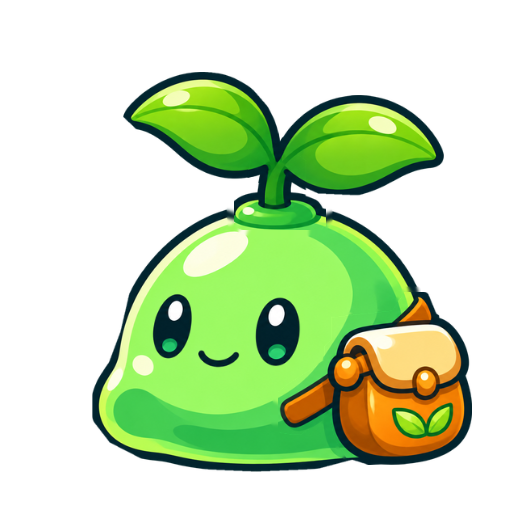
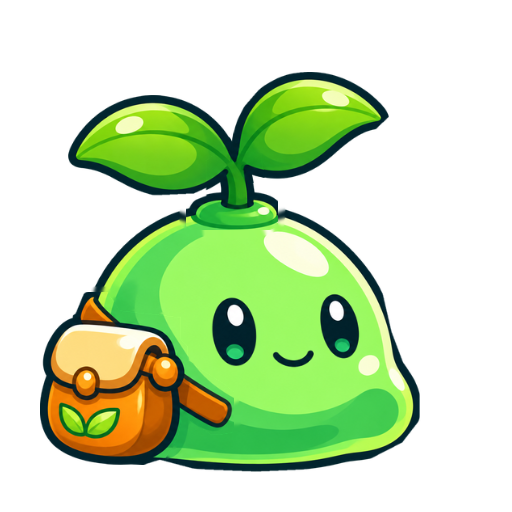
fix: correct Sprout facing

diff --git a/tests/rig-assets.test.js b/tests/rig-assets.test.js
@@ -62,6 +62,13 @@ const EXPECTED_PART_ORDER = Object.freeze({
   ],
 });
 
+const EXPECTED_CANONICAL_FACING = Object.freeze(Object.fromEntries(
+  Object.keys(EXPECTED_PART_ORDER).map((ownerId) => [
+    ownerId,
+    ownerId === 'survivor-moss-sprout' ? -1 : 1,
+  ]),
+));
+
 const EXPECTED_GENERATED_BIND_RECTS = Object.freeze({
   'survivor-shell-shell.shellFront': { x: -44, y: -92, width: 80, height: 64 },
   'survivor-crystal-pin.front': {
@@ -184,7 +191,7 @@ test('rig-parts contract covers all eight characters in canonical draw order', (
     assert.equal(rig.ownerId, ownerId);
     assert.equal(rig.rootBone, 'root');
     assert.equal(rig.faceBone, 'face');
-    assert.equal(rig.canonicalFacing, 1);
+    assert.equal(rig.canonicalFacing, EXPECTED_CANONICAL_FACING[ownerId]);
     assert.equal(rig.atlasPath, expectedAtlasPath(ownerId));
     assert.deepEqual(rig.parts.map(({ id }) => id), expectedParts);
     assert.equal(rig.parts.some(({ bone }) => bone === 'root'), false);

diff --git a/tests/png-runtime-integration.test.js b/tests/png-runtime-integration.test.js
@@ -178,6 +178,26 @@ test('slime composites one complete card bundle after the outer size and facing 
   assert.equal(ctx.globalAlpha, 1);
 });
 
+test('Sprout authored facing left mirrors exactly once to face right in gameplay', () => {
+  resetOffscreen();
+  const ctx = createMainContext();
+  const ownerId = 'survivor-moss-sprout';
+
+  drawSlime(ctx, 30, 70, 100, 'sprout', {
+    animate: false,
+    rigAsset: readyBundle(ownerId),
+  });
+
+  const scale = characterWorldScale(ownerId);
+  assert.equal(MANIFEST.rigs[ownerId].canonicalFacing, -1);
+  assert.deepEqual(ctx.calls.find(([name]) => name === 'scale'), ['scale', -scale, scale]);
+  assert.deepEqual(
+    offscreenState.layerDraws,
+    MANIFEST.rigs[ownerId].parts.map(({ id }) => `${ownerId}:${id}`),
+  );
+  assert.equal(ctx.compositeDraws, 1);
+});
+
 test('draw pipeline forwards expression selection to an independent facial layer', () => {
   resetOffscreen();
   const ctx = createMainContext();

diff --git a/tests/rig-standalones.test.js b/tests/rig-standalones.test.js
@@ -112,7 +112,11 @@ test('world sizing and portrait crops share one aspect-safe profile per characte
     for (const key of ['minX', 'minY', 'maxX', 'maxY']) {
       assert.ok(Math.abs(profile.worldBounds[key] - worldBounds[key]) < 1e-9);
     }
-    assert.equal(rig.canonicalFacing, 1, 'all current production rigs are authored facing right');
+    assert.equal(
+      rig.canonicalFacing,
+      output.ownerId === 'survivor-moss-sprout' ? -1 : 1,
+      'only Sprout is authored facing left; every exported character targets gameplay direction',
+    );
     assert.equal(profile.gameplayFacing, output.category === 'enemy' ? -1 : 1);
 
     const maxSpan = Math.max(

diff --git a/docs/src/character-render-profiles.js b/docs/src/character-render-profiles.js
@@ -36,7 +36,7 @@ export const CHARACTER_RENDER_PROFILES = deepFreeze({
     gameplayFacing: 1,
     worldBounds: { minX: -51, minY: -123.848, maxX: 66.812, maxY: -0.079 },
     portraitCanvas: { width: 512, height: 512 },
-    portraitCrop: { x: 83, y: 64, width: 397, height: 416 },
+    portraitCrop: { x: 32, y: 64, width: 397, height: 416 },
   },
   'enemy-soft-biter': {
     gameplayFacing: -1,

diff --git a/src/character-render-profiles.js b/src/character-render-profiles.js
@@ -36,7 +36,7 @@ export const CHARACTER_RENDER_PROFILES = deepFreeze({
     gameplayFacing: 1,
     worldBounds: { minX: -51, minY: -123.848, maxX: 66.812, maxY: -0.079 },
     portraitCanvas: { width: 512, height: 512 },
-    portraitCrop: { x: 83, y: 64, width: 397, height: 416 },
+    portraitCrop: { x: 32, y: 64, width: 397, height: 416 },
   },
   'enemy-soft-biter': {
     gameplayFacing: -1,

diff --git a/scripts/build-master-derived-rigs.py b/scripts/build-master-derived-rigs.py
@@ -60,6 +60,7 @@ class CharacterSpec:
     owner: str
     rig_id: str
     master_path: str
+    canonical_facing: int
     root: tuple[float, float]
     body_width: int
     subject_bbox: tuple[int, int, int, int]
@@ -73,6 +74,7 @@ CRYSTAL = CharacterSpec(
     owner="survivor-crystal-pin",
     rig_id="crystal",
     master_path="assets/original-masters/survivor-crystal-pin.png",
+    canonical_facing=1,
     root=(828.0, 1071.0),
     body_width=948,
     subject_bbox=(123, 13, 1302, 1071),
@@ -146,6 +148,7 @@ SPROUT = CharacterSpec(
     owner="survivor-moss-sprout",
     rig_id="sprout",
     master_path="assets/original-masters/survivor-moss-sprout.png",
+    canonical_facing=-1,
     root=(704.5, 1019.0),
     body_width=831,
     subject_bbox=(289, 10, 1248, 1019),
@@ -655,6 +658,8 @@ def _bind_rect(layer: LayerSpec, spec: CharacterSpec, cell: Image.Image) -> dict
 
 
 def _build_character(spec: CharacterSpec) -> tuple[dict[str, bytes], dict, dict]:
+    if spec.canonical_facing not in (-1, 1):
+        raise ValueError(f"{spec.owner}: canonical_facing must be +1 or -1")
     master, layers, masks = _native_layers(spec)
     layer_specs = {layer.name: layer for layer in spec.layers}
     rig_scale = 102 / spec.body_width
@@ -783,7 +788,7 @@ def _build_character(spec: CharacterSpec) -> tuple[dict[str, bytes], dict, dict]
         "rigId": spec.rig_id,
         "rootBone": "root",
         "faceBone": "face",
-        "canonicalFacing": 1,
+        "canonicalFacing": spec.canonical_facing,
         "masterDerived": manifest_metadata,
         "parts": runtime_parts,
     }
